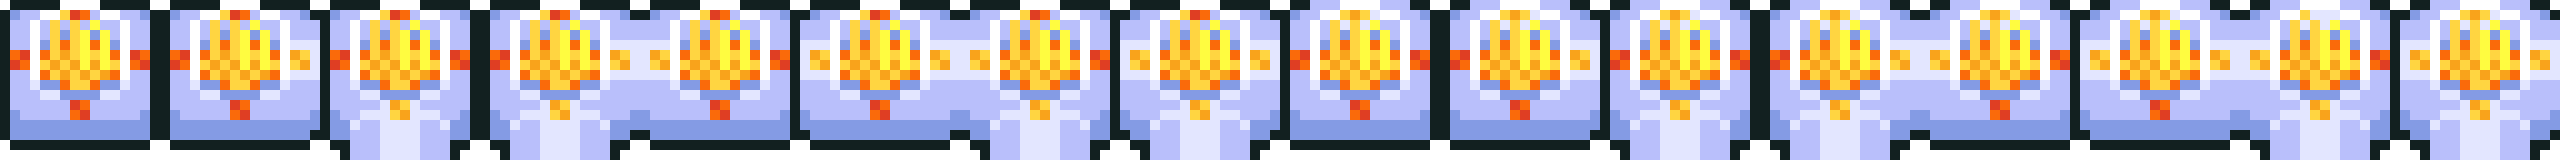
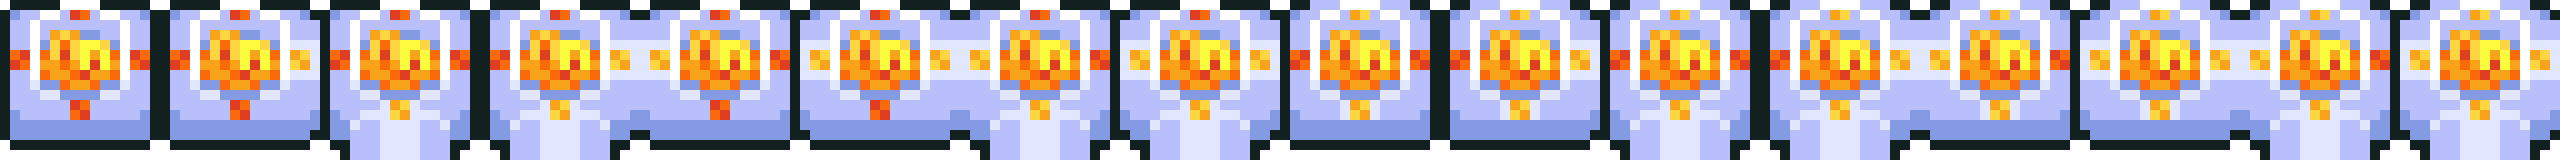
new textures, renamed some components
decided theres going to be a sorta transistor component

Changed region(s): [[0.0, 0.0625, 1.0, 0.5625], [0.75, 0.625, 0.875, 0.75], [0.5, 0.625, 0.625, 0.75]]

diff --git a/js/layers.js b/js/layers.js
@@ -19,8 +19,9 @@ cr_data={
     300:[
       {name:"responsive dust",c:"#DBC046"},
       {name:"responsive cable",c:"#DBC046"},
-      {name:"signal slate",c:"#DBC046"},
       {name:"logic slate",c:"#DBC046"},
+      {name:"cross slate",c:"#DBC046"},
+      {name:"togglable slate",c:"#DBC046"},
     ]
   },
   craft_data:{
@@ -35,8 +36,9 @@ cr_data={
     "engraved bricksCdust":[{a:1,r:"engraved bricks"},{a:1,r:"lively dust"},{a:1,r:"responsive dust"}],
     "lively dustCresponsive dust":[{a:1,r:"dust"}],
     "responsive dustCdust shard":[{a:1,r:"responsive cable"}],
-    "responsive dustCengraved bricks":[{a:1,r:"signal slate"}],
-    "responsive dustCsignal slate":[{a:1,r:"logic slate"}],
+    "responsive dustCengraved bricks":[{a:1,r:"cross slate"}],
+    "responsive dustCcross slate":[{a:1,r:"logic slate"}],
+    "engraved bricksCcross slate":[{a:1,r:"togglable slate"}],
   },
   nameid:{}
 }
@@ -378,9 +380,26 @@ addLayer("ma", {
         for(lx=2;lx<=8;lx++){
           if (player.subtabs.ma.mainTabs!=="designer"){
             let data=getGridData("ma",lx+ly)
+            let detected=[]
             switch (data.contents){
+              case "cross slate":
+                for (l=0;l<=3;l++){
+                  let o=cr_orderofchecks[l]
+                  let pos=lx+ly+o.x+o.y*100
+                  let targdata=getGridData("ma",pos)
+                  if (targdata.held_signal!==null){
+                    if (""+targdata.held_signal.prevpos!==""+(lx+ly)){
+                      detected.push({pos:pos,signal:targdata.held_signal,ox:o.x,oy:o.y})
+                    }
+                  }
+                }
+                for (l=0;l<detected.length;l++){
+                  let det=detected[l]
+                  let newpos=lx+ly-det.ox-det.oy*100
+                  update(newpos,det.signal)
+                }
+                break;
               case "logic slate":
-                let detected=[]
                 for (l=0;l<=3;l++){
                   let o=cr_orderofchecks[l]
                   let pos=lx+ly+o.x+o.y*100
@@ -426,7 +445,19 @@ addLayer("ma", {
                       })
                     }
                   }
+                }else if (detected.length>=3){
+                  let facx=0
+                  let facy=0
+                  for (l=0;l<=3;l++){
+                    let skip=false
+                    let o=cr_orderofchecks[l]
+                    let pos=lx+ly+o.x+o.y*100
+                    for (l=0;l<=2;l++){
+                      update(detected[l].pos,null)
+                    }
+                  }
                 }
+                break;
               case "responsive cable":
                 if (data.held_signal!==null){
                   //data.held_signal.value+=1
@@ -556,10 +587,14 @@ addLayer("ma", {
           let pos=`${-data.wire_sprite*100}% 50%`
           style["background-position"]=pos
           style["background-image"]='url("./responsive_dust_E.png")'
-        }else if (data.contents=="signal slate"){
+        }else if (data.contents=="cross slate"){
           let pos=`${-data.wire_sprite*100}% 50%`
           style["background-position"]=pos
-          style["background-image"]='url("./signal_slate_E.png")'
+          style["background-image"]='url("./cross_slate_E.png")'
+        }else if (data.contents=="togglable slate"){
+          let pos=`${-data.wire_sprite*100}% 50%`
+          style["background-position"]=pos
+          style["background-image"]='url("./togglable_slate_E.png")'
         }else if (data.contents=="logic slate"){
           let pos=`${-data.wire_sprite*100}% 50%`
           style["background-position"]=pos
